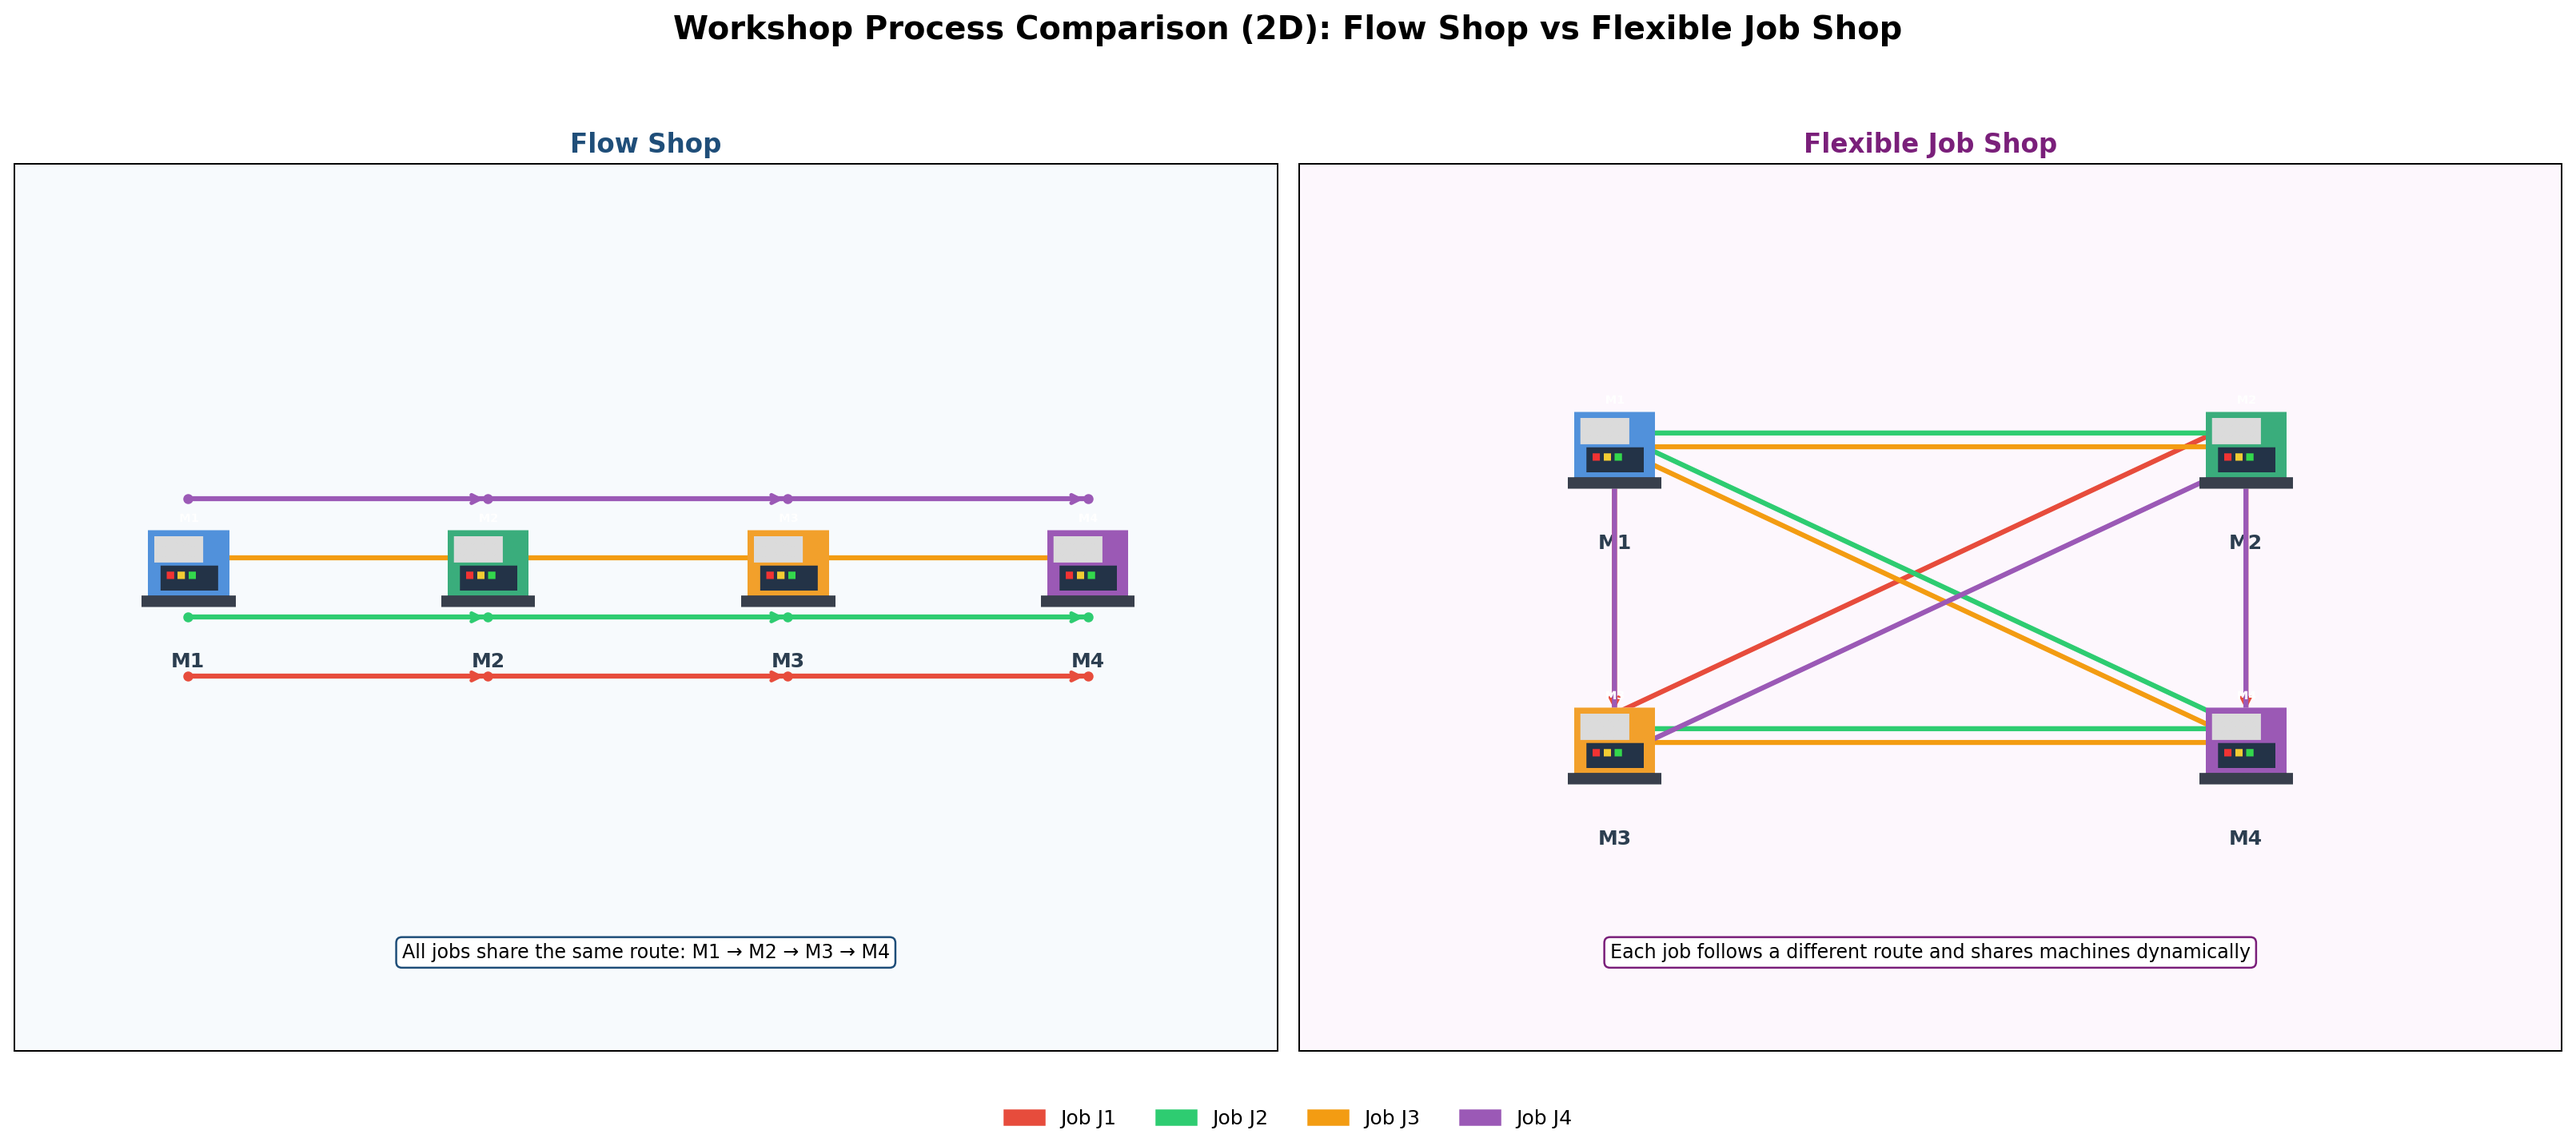
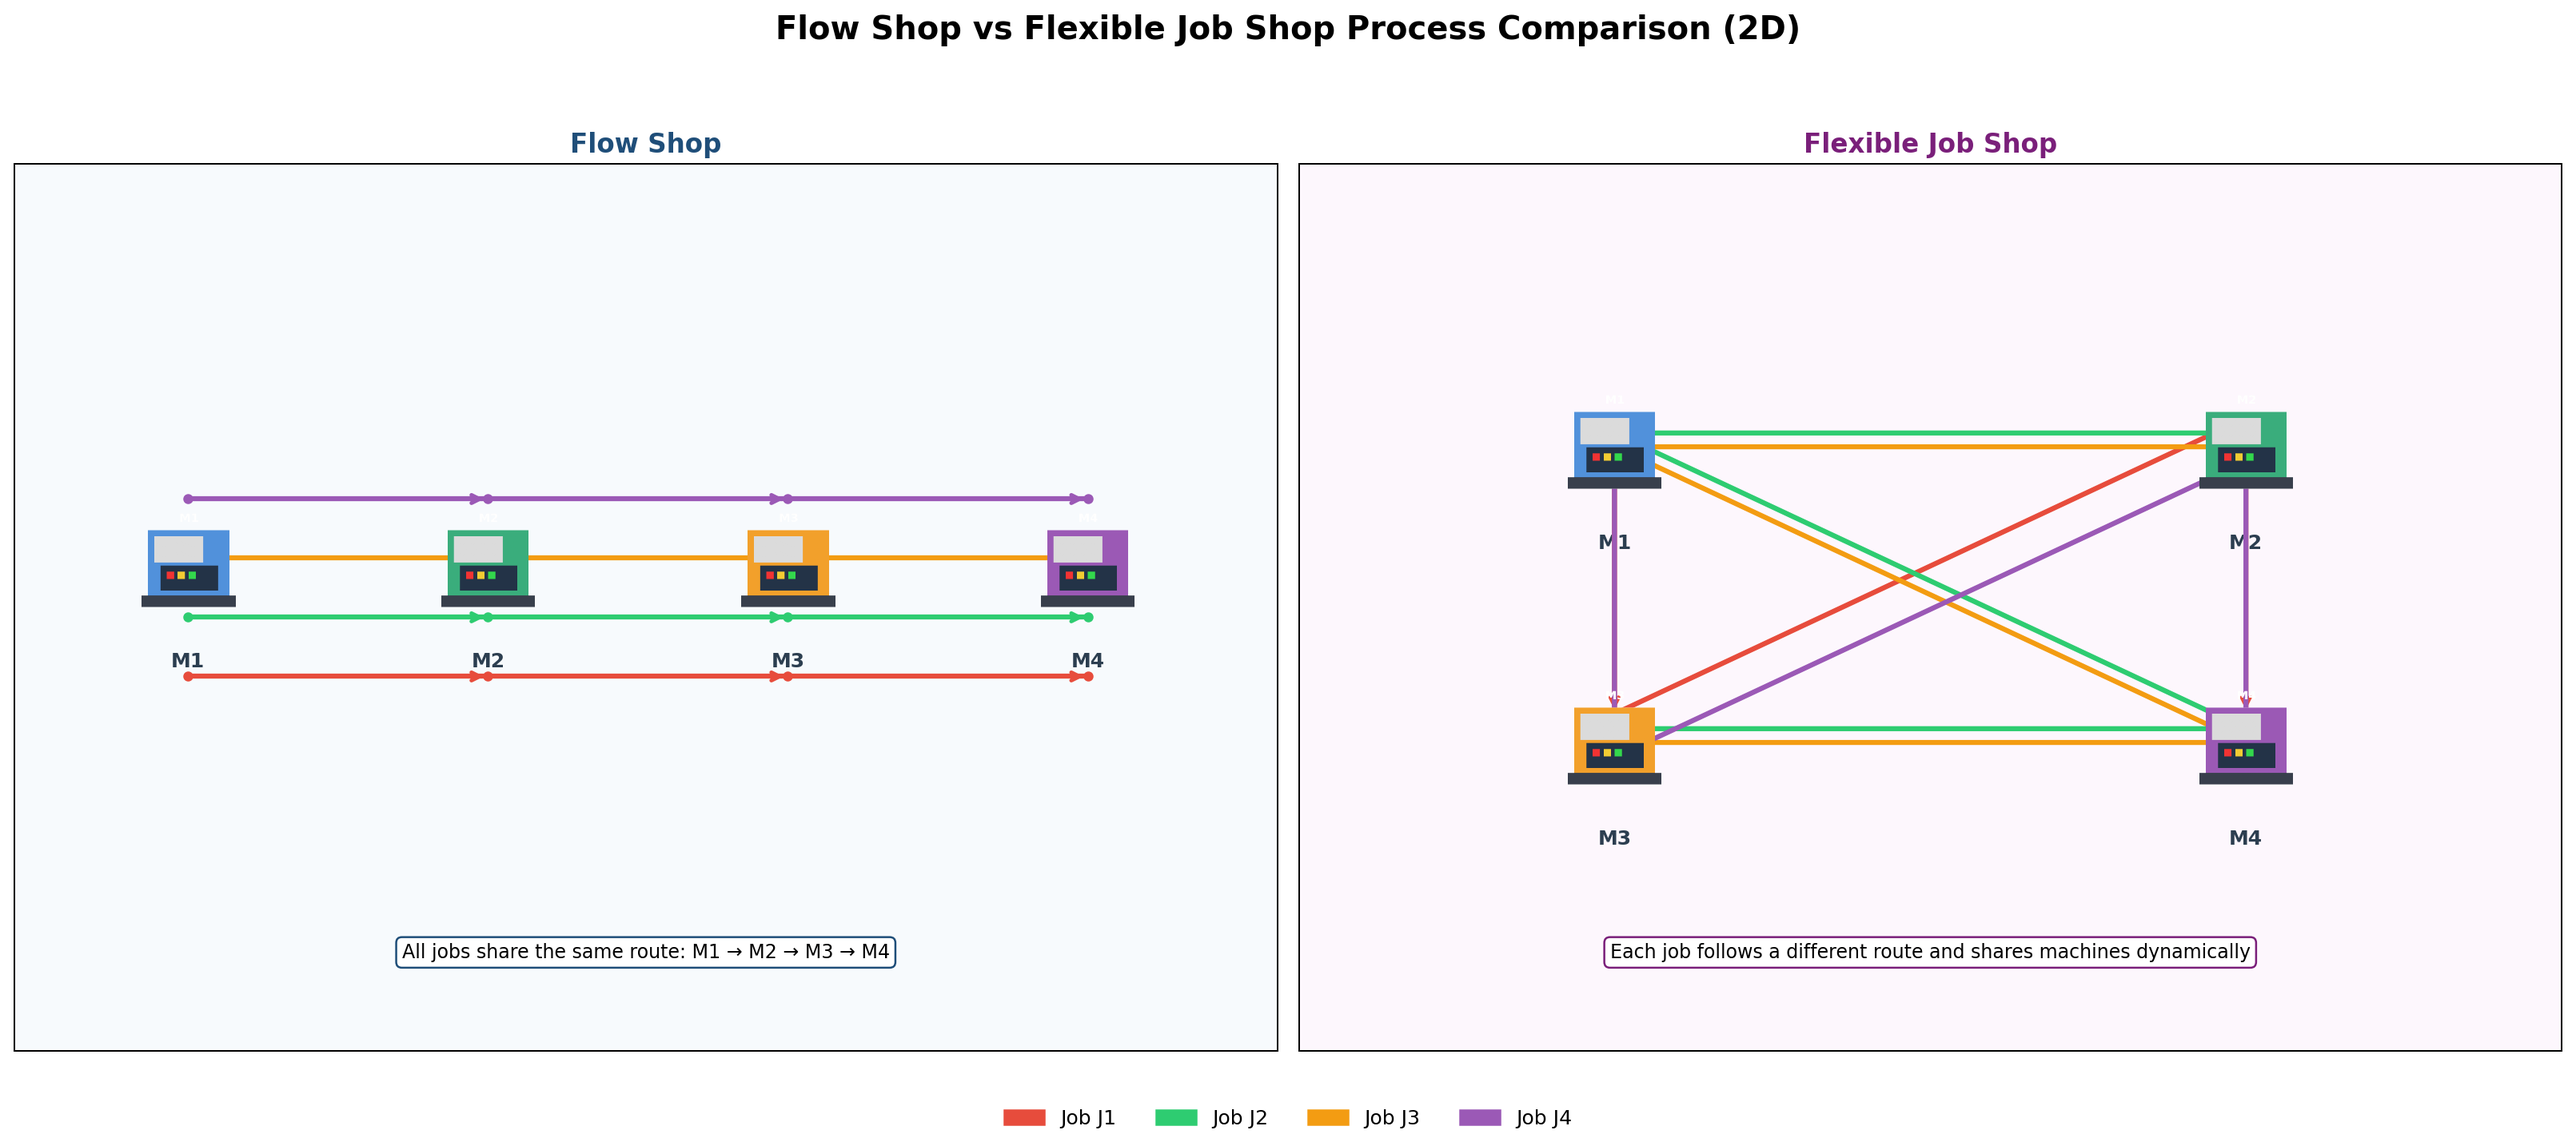
Polish 2D comparison output messages
Agent-Logs-Url: https://github.com/lian06166/111/sessions/f03e27e1-14bd-467c-8353-cbe0c4d830ed

Changed region(s): [[0.2483, 0.0, 0.7449, 0.0614]]

diff --git a/generate_workshop_images.py b/generate_workshop_images.py
@@ -191,7 +191,7 @@ def draw_comparison(machine_icons):
     ]
     fig.legend(handles=legend_handles, loc='lower center', ncol=4, frameon=False, fontsize=10)
 
-    fig.suptitle('Workshop Process Comparison (2D): Flow Shop vs Flexible Job Shop', fontsize=16, fontweight='bold')
+    fig.suptitle('Flow Shop vs Flexible Job Shop Process Comparison (2D)', fontsize=16, fontweight='bold')
     fig.tight_layout(rect=[0, 0.06, 1, 0.94])
     fig.savefig(OUTPUT_PATH, dpi=180, bbox_inches='tight')
     plt.close(fig)
@@ -203,7 +203,6 @@ def main():
     create_machine_icons()
     machine_icons = {m: plt.imread(p) for m, p in ICON_PATHS.items()}
     draw_comparison(machine_icons)
-    print('2D comparison simulation image generated.')
 
 
 if __name__ == '__main__':
